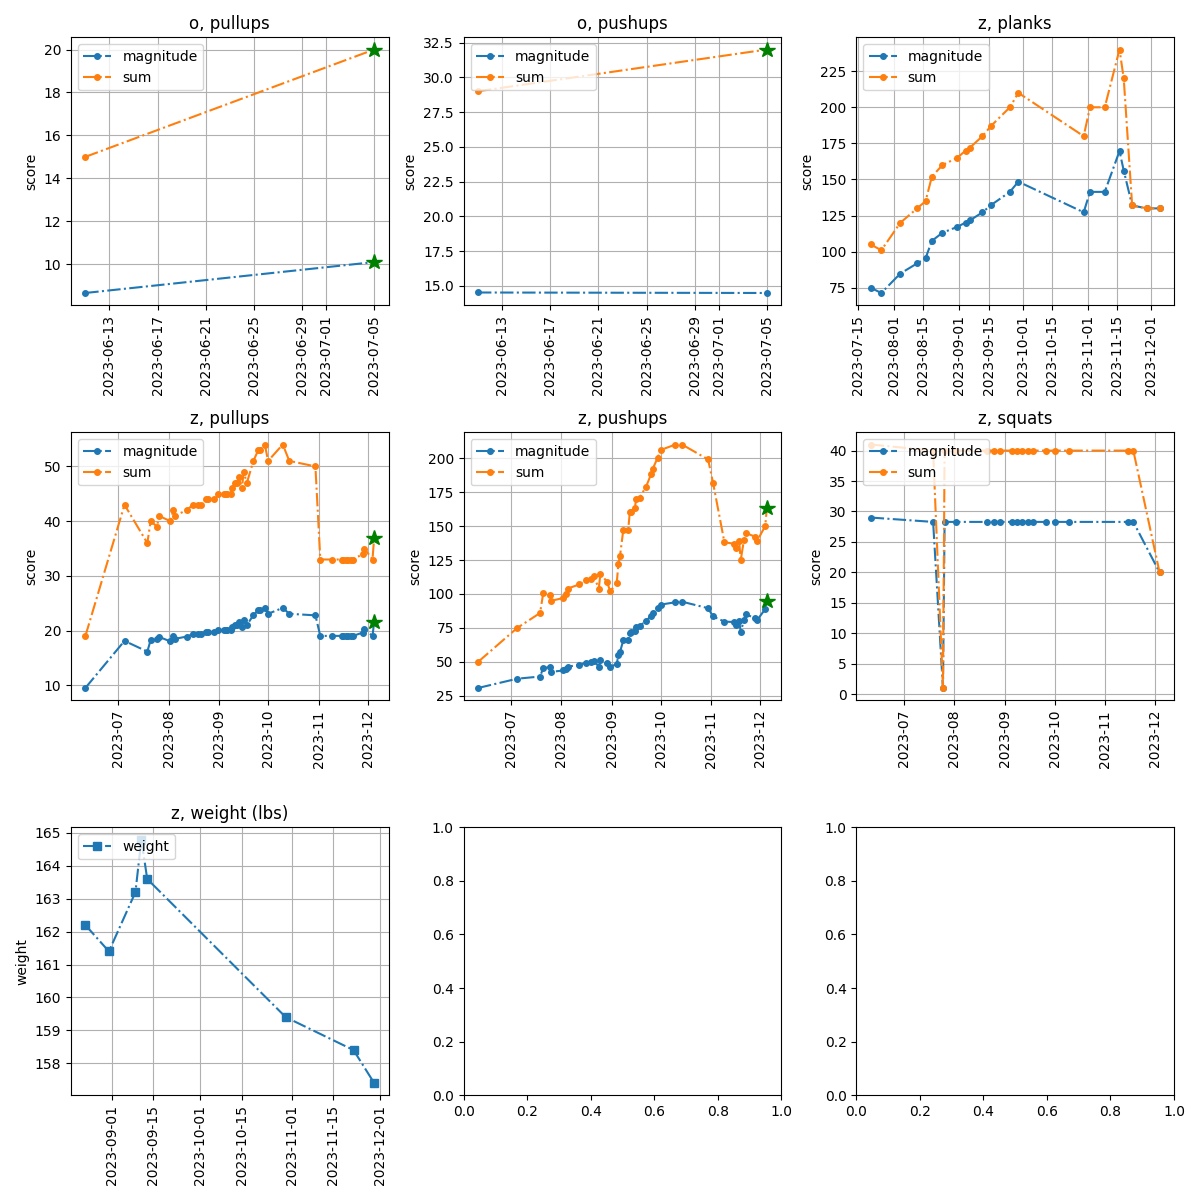
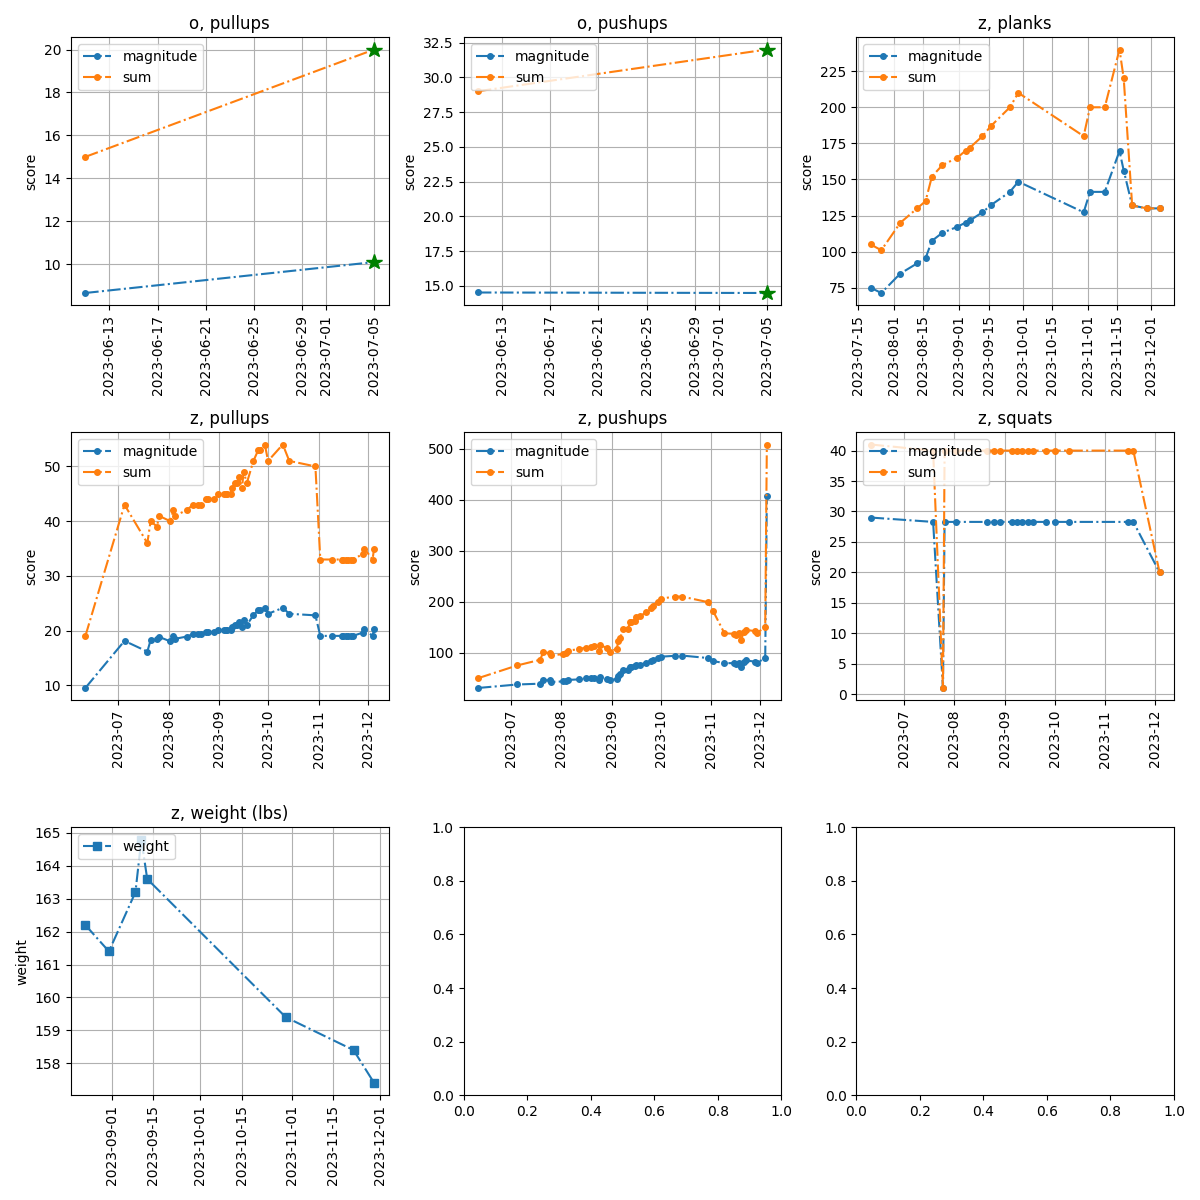
fix

Changed region(s): [[0.37, 0.37, 0.6475, 0.5858], [0.3083, 0.4317, 0.37, 0.4625], [0.3392, 0.37, 0.37, 0.4008]]

diff --git a/track.py b/track.py
@@ -61,15 +61,20 @@ def compute_target_reps_sum(exercise_groups, workout):
         max_score_sum = int(
             max(exercise_group[exercise_group.score_type == "sum"].score)
         )
+        max_score_magnitude = max(
+            exercise_group[exercise_group.score_type == "magnitude"].score
+        )
         target_score_sum = max_score_sum + 1
         set_targets = [int(target_score_sum / workout[exercise])] * workout[exercise]
         remainder = target_score_sum % workout[exercise]
         for i in range(1, remainder + 1):
             set_targets[-i] += 1
-        targets.append((person, exercise, set_targets))
-    targets = pd.DataFrame(targets, columns=["person", "exercise", "reps"]).sort_values(
-        by=["person", "exercise"]
-    )
+        targets.append(
+            (person, exercise, set_targets, max_score_sum, max_score_magnitude)
+        )
+    targets = pd.DataFrame(
+        targets, columns=["person", "exercise", "reps", "sum", "magnitude"]
+    ).sort_values(by=["person", "exercise"])
     return targets
 
 
@@ -89,7 +94,9 @@ hist_sets = pd.read_csv("history_sets.csv")
 target_reps = compute_target_reps_sum(
     compute_exercise_groups(hist_sets, workout), workout
 )
-print(f"\n*** Target Reps *** \n\n {target_reps}\n\n*** Let's go! ***\n")
+print(
+    f"\n*** Target Reps *** \n\n {target_reps[['person', 'exercise', 'reps']]}\n\n*** Let's go! ***\n"
+)
 
 hist_weights = pd.read_csv("history_weight.csv").drop_duplicates(
     ["date", "person"], keep="last"
@@ -182,13 +189,16 @@ for i, subplot in enumerate(exercise_groups):
         ax_flat[i].plot(
             pd.to_datetime(x), y, "-.", marker="o", label=label, markersize=4
         )
-        # look back 30 days to see if achieved better score
-        if y.iloc[-1] > max(
-            subsubplot[
-                pd.to_datetime(subsubplot["date"])
-                > pd.to_datetime(subsubplot["date"].iloc[-1])
-                - datetime.timedelta(days=30)
-            ].iloc[-20:-1].score
+        person = subsubplot.loc[0, "person"]
+        exercise = subsubplot.loc[0, "exercise"]
+        score_type = subsubplot.loc[0, "score_type"]
+        # check to see if successfully beat max for workout
+        if (
+            y.iloc[-1]
+            > target_reps[
+                (target_reps["exercise"] == exercise)
+                & (target_reps["person"] == person)
+            ].iloc[0][score_type]
         ):
             ax_flat[i].plot(
                 pd.to_datetime(x.iloc[-1]),
